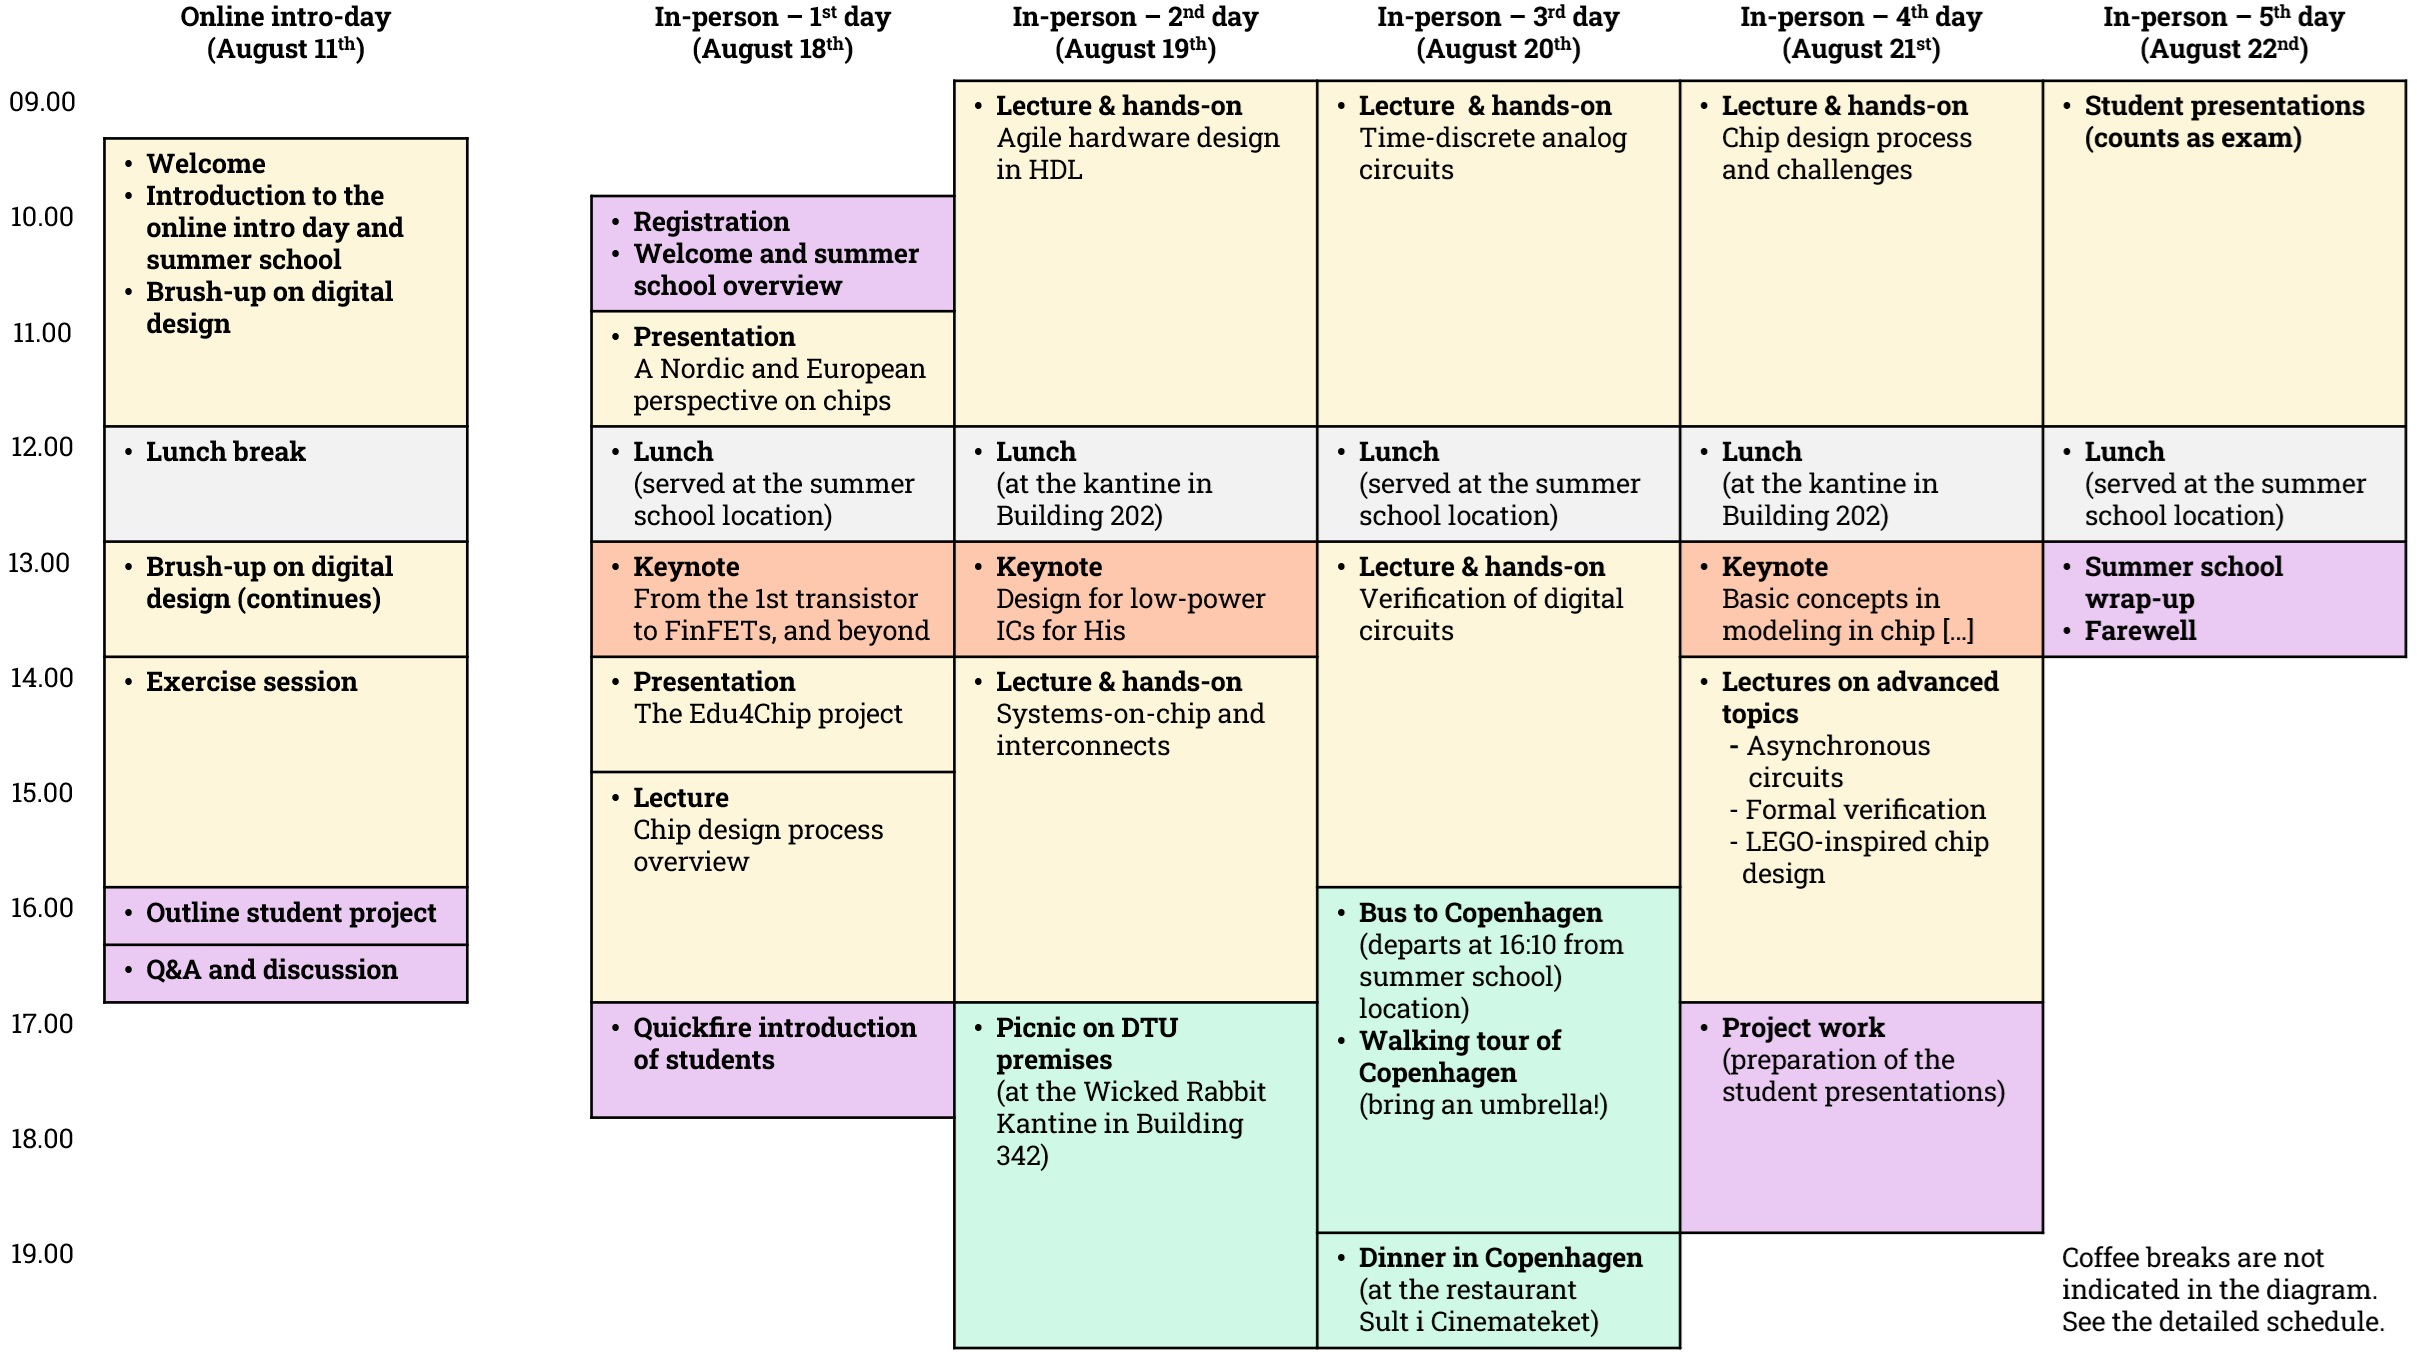
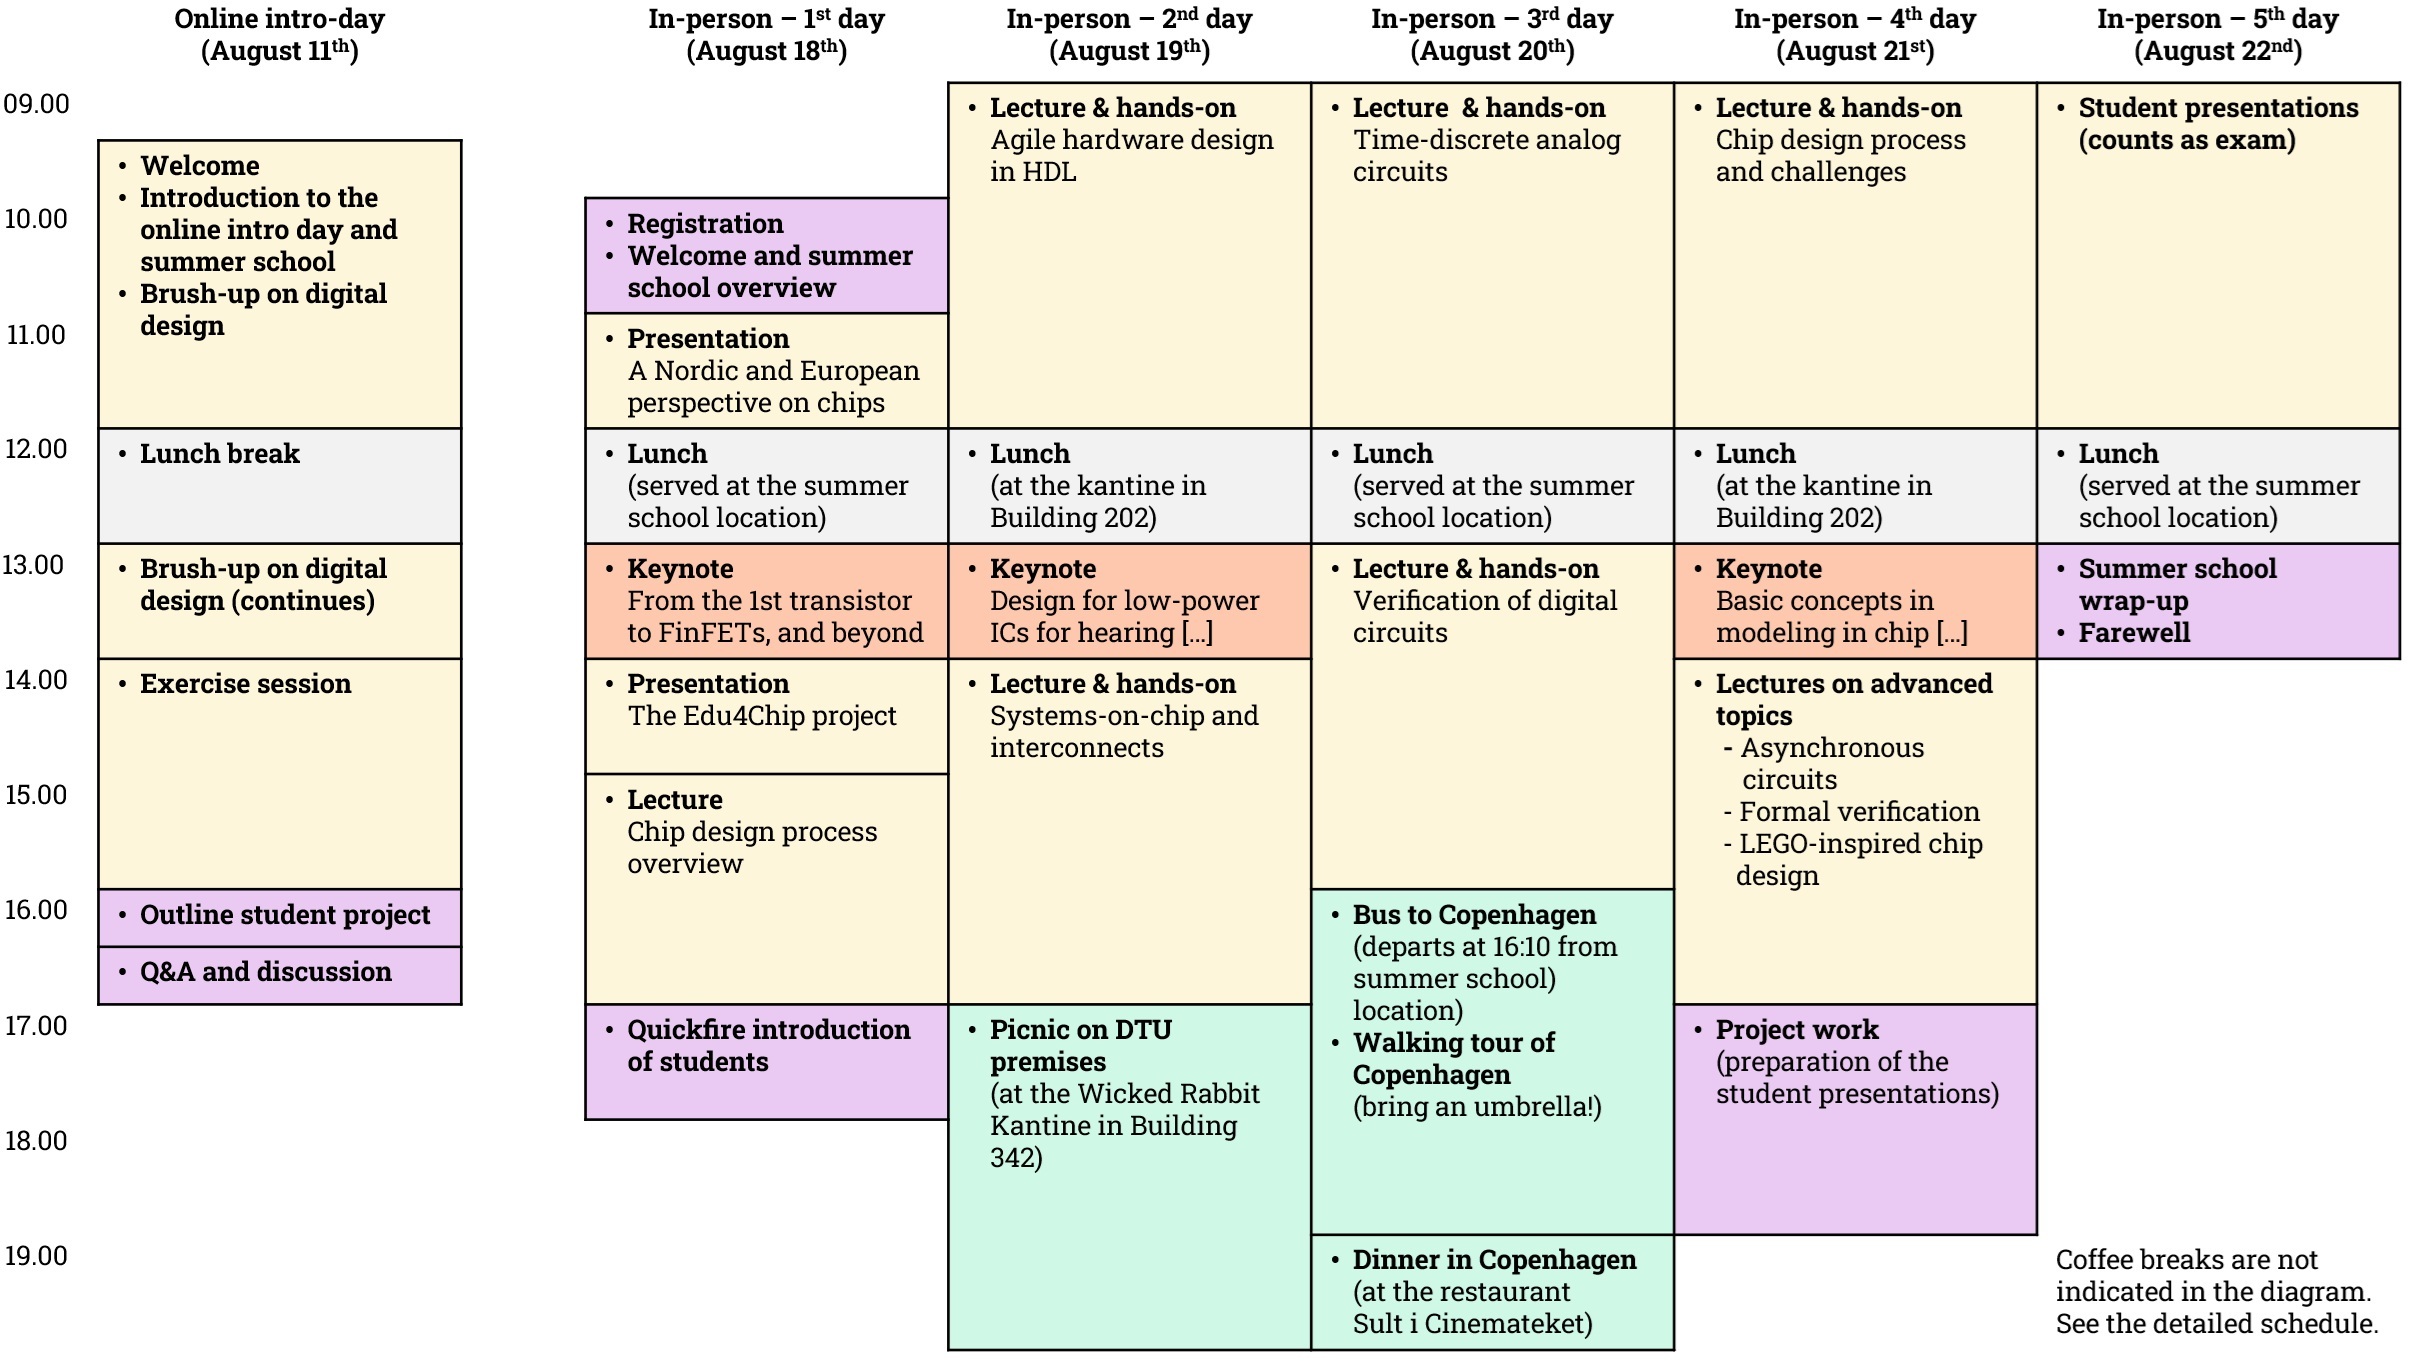
Typo fix.

diff --git a/summer2025.html b/summer2025.html
@@ -575,7 +575,7 @@
 											</div>
 											<div style="float: inline-end;"> 
 												The keynote presents and discusses hardware strategies for supporting hearing instruments applications like audio processing, AI, and wireless communication on a constrained power budget.
-												Advanced hearing aids use integrated circuits (ICs) carachterized by critical requirements of PPA: Power (power efficiency), Performance (throughput, latency, signal quality), and area (IC area, RAM, ROM, NVRAM). On the other hand, the hearing instruments need to handle diverse applications like audiology and wireless protocols. Thus, the hearing instruments ICs rely on high level of specialization in IC technology, digital-analog circuits, micro-controllers, DSP, and AI processors. Overall, the hearing instruments consist of multiple specialized ICs and within the ICs can be multiple processor cores, all these are tied together with performant yet efficient communication busses and NOC.
+												Advanced hearing aids use integrated circuits (ICs) characterized by critical requirements of PPA: Power (power efficiency), Performance (throughput, latency, signal quality), and area (IC area, RAM, ROM, NVRAM). On the other hand, the hearing instruments need to handle diverse applications like audiology and wireless protocols. Thus, the hearing instruments ICs rely on high level of specialization in IC technology, digital-analog circuits, micro-controllers, DSP, and AI processors. Overall, the hearing instruments consist of multiple specialized ICs and within the ICs can be multiple processor cores, all these are tied together with performant yet efficient communication busses and NOC.
 												<br><br>
 												<strong>Evangelia Kasapaki</strong> and <strong>Vijay Kumar Bhat</strong> are industry experts working at Demant, a leading company in hearing aid technology. They have extensive experience in the design and development of low-power integrated circuits for hearing instruments.
 											</div>
